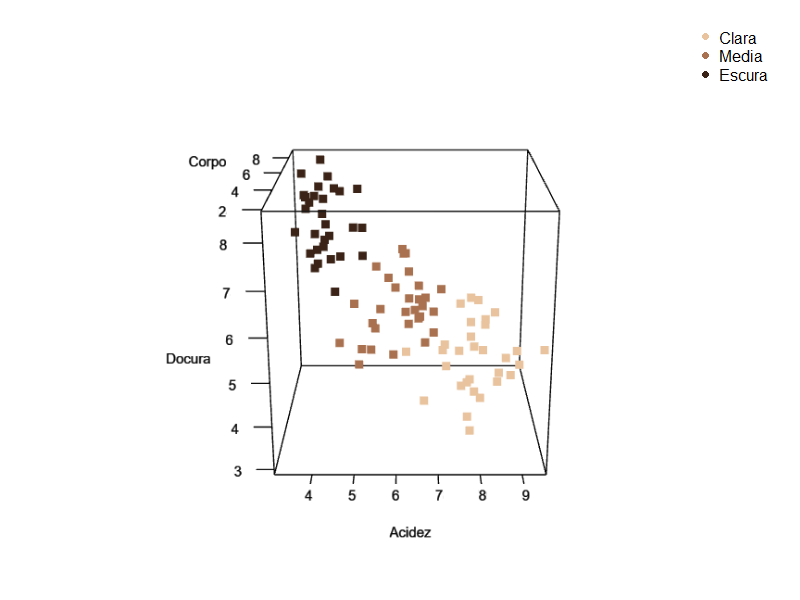
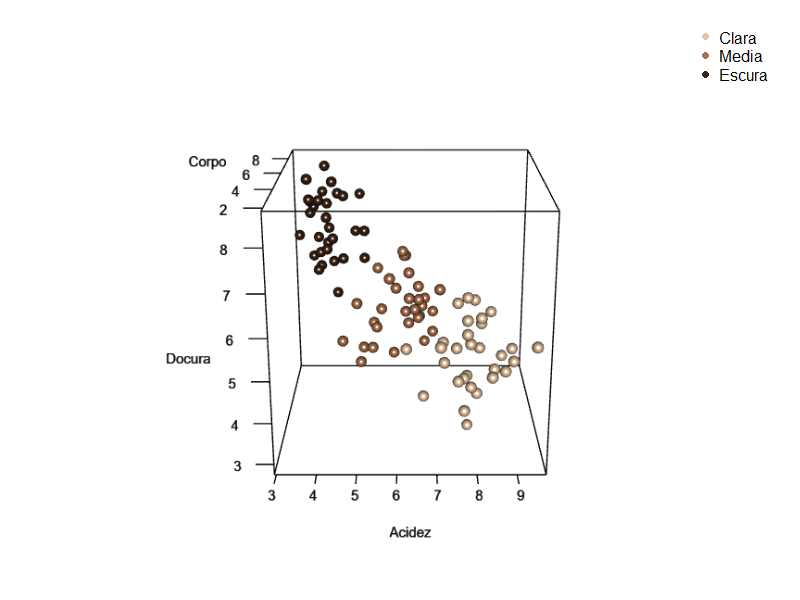
style: troca marcadores do dispersao 3d de cafes para esferas
type="s" (radius=0.15) no lugar de type="p" -- esferas com sombreamento
e reflexo reais em vez de marcadores achatados, a pedido do usuario.
Mesma cena/dados, output.png e widget.html regenerados.

diff --git a/graficos/correlation/dispersao-3d-cafes/widget.html b/graficos/correlation/dispersao-3d-cafes/widget.html
@@ -33,9 +33,9 @@
   .rglWebGL { max-width: 100%; }
   .rglWebGL canvas { max-width: 100%; height: auto !important; }
 </style>
-<p id="rgl65197-aria" hidden>3D plot</p>
-<div aria-labelledby="rgl65197-aria" class="rglWebGL html-widget html-fill-item" id="rgl65197" role="img" style="width:960px;height:500px;"></div>
-<script type="application/json" data-for="rgl65197">{"x":{"material":{"color":"#000000","alpha":1,"lit":true,"ambient":"#000000","specular":"#FFFFFF","emission":"#000000","shininess":50,"smooth":true,"front":"filled","back":"filled","size":3,"lwd":1,"fog":true,"point_antialias":false,"line_antialias":false,"texture":null,"textype":"rgb","texmode":"modulate","texmipmap":false,"texminfilter":"linear","texmagfilter":"linear","texenvmap":false,"depth_mask":true,"depth_test":"less","isTransparent":false,"polygon_offset":[0,0],"margin":"","floating":false,"tag":"","blend":["src_alpha","one_minus_src_alpha"]},"rootSubscene":6,"objects":{"15":{"id":15,"type":"points","material":{"lit":false,"size":9},"vertices":"0","colors":"1","centers":"2","ignoreExtent":false,"flags":34816},"17":{"id":17,"type":"text","material":{"lit":false,"margin":0,"floating":true,"edge":[0,1,1]},"vertices":"3","colors":"4","texts":[["Acidez"]],"cex":[[1]],"adj":[[0.5,0.5,0.5]],"centers":"5","family":[["sans"]],"font":[[1]],"ignoreExtent":true,"flags":33808},"18":{"id":18,"type":"text","material":{"lit":false,"margin":1,"floating":true,"edge":[1,1,1]},"vertices":"6","colors":"7","texts":[["Corpo"]],"cex":[[1]],"adj":[[0.5,0.5,0.5]],"centers":"8","family":[["sans"]],"font":[[1]],"ignoreExtent":true,"flags":33808},"19":{"id":19,"type":"text","material":{"lit":false,"margin":2,"floating":true,"edge":[1,1,1]},"vertices":"9","colors":"10","texts":[["Docura"]],"cex":[[1]],"adj":[[0.5,0.5,0.5]],"centers":"11","family":[["sans"]],"font":[[1]],"ignoreExtent":true,"flags":33808},"10":{"id":10,"type":"light","vertices":[[0,0,1]],"colors":[[1,1,1,1],[1,1,1,1],[1,1,1,1]],"viewpoint":true,"finite":false},"14":{"id":14,"type":"background","material":{"lit":false,"back":"lines"},"colors":"12","centers":"13","sphere":false,"fogtype":"none","fogscale":1,"flags":32768},"16":{"id":16,"type":"bboxdeco","material":{"front":"lines","back":"lines"},"vertices":"14","colors":"15","axes":{"mode":["pretty","pretty","pretty"],"step":[1,2,1],"nticks":[5,5,5],"marklen":[15,15,15],"expand":[1.029999971389771,1.029999971389771,1.029999971389771]},"draw_front":true,"flags":32769},"6":{"id":6,"type":"subscene","par3d":{"antialias":8,"FOV":30,"ignoreExtent":false,"listeners":6,"mouseMode":{"none":"none","left":"trackball","right":"zoom","middle":"fov","wheel":"pull"},"observer":[0,0,26.93403244018555],"modelMatrix":[[1.012434601783752,0,0,-6.416621685028076],[0,0.3061574995517731,1.066445589065552,-7.826549530029297],[0,-0.841160774230957,0.3881544768810272,-24.53449058532715],[0,0,0,1]],"projMatrix":[[2.799038171768188,0,0,0],[0,3.732050657272339,0,0],[0,0,-3.863702774047852,-97.09406280517578],[0,0,-1,0]],"skipRedraw":false,"userMatrix":[[1,0,0,0],[0,0.3420201433256682,0.9396926207859085,0],[0,-0.9396926207859085,0.3420201433256682,0],[0,0,0,1]],"userProjection":[[1,0,0,0],[0,1,0,0],[0,0,1,0],[0,0,0,1]],"scale":[1.012434601783752,0.8951445817947388,1.1348876953125],"viewport":{"x":0,"y":0,"width":1,"height":1},"zoom":1,"bbox":[3.199418306350708,9.476208686828613,1.959739565849304,9.058972358703613,2.957507371902466,8.557039260864258],"windowRect":[0,0,800,600],"family":"sans","font":1,"cex":1,"useFreeType":false,"fontname":"NULL","maxClipPlanes":2147483647,"glVersion":"NA","activeSubscene":0},"embeddings":{"viewport":"replace","projection":"replace","model":"replace","mouse":"replace"},"objects":[14,16,15,17,18,19,10],"subscenes":[],"flags":36113}},"crosstalk":{"key":[],"group":[],"id":[],"options":[]},"width":801,"height":601,"buffer":{"accessors":[{"bufferView":0,"componentType":5126,"count":90,"type":"VEC3"},{"bufferView":1,"componentType":5121,"count":90,"type":"VEC4","normalized":true},{"bufferView":2,"componentType":5126,"count":90,"type":"VEC3"},{"bufferView":3,"componentType":5126,"count":1,"type":"VEC3"},{"bufferView":4,"componentType":5121,"count":1,"type":"VEC4"},{"bufferView":5,"componentType":5126,"count":1,"type":"VEC3"},{"bufferView":6,"componentType":5126,"count":1,"type":"VEC3"},{"bufferView":7,"componentType":5121,"count":1,"type":"VEC4"},{"bufferView":8,"componentType":5126,"count":1,"type":"VEC3"},{"bufferView":9,"componentType":5126,"count":1,"type":"VEC3"},{"bufferView":10,"componentType":5121,"count":1,"type":"VEC4"},{"bufferView":11,"componentType":5126,"count":1,"type":"VEC3"},{"bufferView":12,"componentType":5121,"count":1,"type":"VEC4"},{"bufferView":13,"componentType":5121,"count":1,"type":"VEC3"},{"bufferView":14,"componentType":5126,"count":16,"type":"VEC3"},{"bufferView":15,"componentType":5121,"count":1,"type":"VEC4"}],"bufferViews":[{"buffer":0,"byteLength":1080,"byteOffset":0},{"buffer":0,"byteLength":360,"byteOffset":1080},{"buffer":0,"byteLength":1080,"byteOffset":1440},{"buffer":0,"byteLength":12,"byteOffset":2520},{"buffer":0,"byteLength":4,"byteOffset":2532},{"buffer":0,"byteLength":12,"byteOffset":2536},{"buffer":0,"byteLength":12,"byteOffset":2548},{"buffer":0,"byteLength":4,"byteOffset":2560},{"buffer":0,"byteLength":12,"byteOffset":2564},{"buffer":0,"byteLength":12,"byteOffset":2576},{"buffer":0,"byteLength":4,"byteOffset":2588},{"buffer":0,"byteLength":12,"byteOffset":2592},{"buffer":0,"byteLength":4,"byteOffset":2604},{"buffer":0,"byteLength":3,"byteOffset":2608},{"buffer":0,"byteLength":192,"byteOffset":2612},{"buffer":0,"byteLength":4,"byteOffset":2804}],"buffers":[{"byteLength":2808,"bytes":"cnb2QCRTKkDyYXtA5xn6QKZcgUA9vcdAORYMQVcskkBerpRA6QQPQXqmPEAGQ6FANHziQL/Y\n+j+XcrZAHmbmQFzGSEAdNZ5A5pr8QFAmUkD3I4lAmoD7QHOKh0DNRz1AfbECQQ7ue0D20rRA\n9aL4QDXaQkD3gb9AgHP7QJ2eQ0CWe61AvQECQcf9TUAjwr9AoU4PQREPc0C3XaJAlIr4QMBj\nNEAFHbdA2tYFQcaCD0BTupxASzgHQf36OUAjvJtAM8TxQA1se0BRmcRA5PwBQa6kdUDHj6JA\nKZb5QD6XaECZmI5AfAcAQdFmhkBrpMRAyp/2QP7RSkCHjpFAjZ4XQUcDI0BWULBAoJjHQN20\nTkBm26dA6M/VQFlTd0Dbb3ZAS3ELQW8pK0D+lZxAITPwQPilS0DC+KhAhNPlQIELc0A7UadA\nVQ/xQHOpHkDX8pZAsc8AQUXbWkAEyYJAW3MHQULymUDZtbVAnV/jQNUskUBbsslAke2iQGT1\npUA3EJVAcgbSQHzWrEA4D7pAW/2tQAYS20A1ZcdArKrJQBMTqUBodNBAGrDRQLXbrEDZqsRA\nNqOrQIPwrUCkFKdAuaq5QGkijkBF9dJA9jquQMfJpUBbuqVA9mrXQAj0yUBg0Y5ABd7GQOsX\nvkBEUKtA0fTJQApAl0BOA8FAM0fEQKgVx0D1HNpA3ErVQAB1zEBsn6tAaYaRQC6MmUCgA55A\n6j+rQB4PkkCVS5tAgWXeQNsst0DS0pxAyZDeQGW4w0DU1KlAO6DOQFNbokCB/bRAqgbYQK/H\n40ATuKtAdL/RQDkWrkAb7KpA8mmdQGP0pEDGDrlALT6yQLnBrUCRPbJA/N+8QO+QpEATQpFA\nUHHJQBkvqEBwa6hAXwChQJmVlkAmFI5ASKm+QA0NrUBcH8NAA/HGQB6v10B5utJAmCPTQOTv\nyEADPKRAGHXFQC94y0BXjdVARcNMQLQz/kDTZdpA0PhjQDnq0EDmfAhB98KFQFBf50BsYQVB\nBUSPQPrw7UAaNP5AiRCZQElx/0C/vN1AouN2QCSf5kChrsZAQeOAQLF+30Aoqe9Ap7CcQIa+\nBUEcJ/pALL+IQEYn8kBuoqxAl4ViQEKy9UCh2e5A+uWhQGmc6UA4keJA7z9/QJuZ/UCW/vRA\nmLNwQHMh+UCNPfhAZPmJQI0L8kBMif9Apn+BQIXc60AzkdhA165kQAljBkGNEu9A5GdkQLK3\nA0EUvMZA+7uFQODt9EDnncZAdWByQI3xEEEYuPdA+1BkQP7S3UCgV/5AjyuCQMZT8UDuieNA\nQh5gQJAYAUFlefVAQaBvQFNd/UDi9thAnbSGQNYT2kCb1d9A4Fd7QCCZA0Gi6QhBVJeBQDJ4\n2UDoUtdAgfVzQFDM10Bb8sZATrpzQGgL90DTu81A/2KPQJfV30AqGs5AOZChQLNx8ED0c8pA\n6MOe/+jDnv/ow57/6MOe/+jDnv/ow57/6MOe/+jDnv/ow57/6MOe/+jDnv/ow57/6MOe/+jD\nnv/ow57/6MOe/+jDnv/ow57/6MOe/+jDnv/ow57/6MOe/+jDnv/ow57/6MOe/+jDnv/ow57/\n6MOe/+jDnv/ow57/qXFP/6lxT/+pcU//qXFP/6lxT/+pcU//qXFP/6lxT/+pcU//qXFP/6lx\nT/+pcU//qXFP/6lxT/+pcU//qXFP/6lxT/+pcU//qXFP/6lxT/+pcU//qXFP/6lxT/+pcU//\nqXFP/6lxT/+pcU//qXFP/6lxT/+pcU//OyQX/zskF/87JBf/OyQX/zskF/87JBf/OyQX/zsk\nF/87JBf/OyQX/zskF/87JBf/OyQX/zskF/87JBf/OyQX/zskF/87JBf/OyQX/zskF/87JBf/\nOyQX/zskF/87JBf/OyQX/zskF/87JBf/OyQX/zskF/87JBf/cnb2QCRTKkDyYXtA5xn6QKZc\ngUA9vcdAORYMQVcskkBerpRA6QQPQXqmPEAGQ6FANHziQL/Y+j+XcrZAHmbmQFzGSEAdNZ5A\n5pr8QFAmUkD3I4lAmoD7QHOKh0DNRz1AfbECQQ7ue0D20rRA9aL4QDXaQkD3gb9AgHP7QJ2e\nQ0CWe61AvQECQcf9TUAjwr9AoU4PQREPc0C3XaJAlIr4QMBjNEAFHbdA2tYFQcaCD0BTupxA\nSzgHQf36OUAjvJtAM8TxQA1se0BRmcRA5PwBQa6kdUDHj6JAKZb5QD6XaECZmI5AfAcAQdFm\nhkBrpMRAyp/2QP7RSkCHjpFAjZ4XQUcDI0BWULBAoJjHQN20TkBm26dA6M/VQFlTd0Dbb3ZA\nS3ELQW8pK0D+lZxAITPwQPilS0DC+KhAhNPlQIELc0A7UadAVQ/xQHOpHkDX8pZAsc8AQUXb\nWkAEyYJAW3MHQULymUDZtbVAnV/jQNUskUBbsslAke2iQGT1pUA3EJVAcgbSQHzWrEA4D7pA\nW/2tQAYS20A1ZcdArKrJQBMTqUBodNBAGrDRQLXbrEDZqsRANqOrQIPwrUCkFKdAuaq5QGki\njkBF9dJA9jquQMfJpUBbuqVA9mrXQAj0yUBg0Y5ABd7GQOsXvkBEUKtA0fTJQApAl0BOA8FA\nM0fEQKgVx0D1HNpA3ErVQAB1zEBsn6tAaYaRQC6MmUCgA55A6j+rQB4PkkCVS5tAgWXeQNss\nt0DS0pxAyZDeQGW4w0DU1KlAO6DOQFNbokCB/bRAqgbYQK/H40ATuKtAdL/RQDkWrkAb7KpA\n8mmdQGP0pEDGDrlALT6yQLnBrUCRPbJA/N+8QO+QpEATQpFAUHHJQBkvqEBwa6hAXwChQJmV\nlkAmFI5ASKm+QA0NrUBcH8NAA/HGQB6v10B5utJAmCPTQOTvyEADPKRAGHXFQC94y0BXjdVA\nRcNMQLQz/kDTZdpA0PhjQDnq0EDmfAhB98KFQFBf50BsYQVBBUSPQPrw7UAaNP5AiRCZQElx\n/0C/vN1AouN2QCSf5kChrsZAQeOAQLF+30Aoqe9Ap7CcQIa+BUEcJ/pALL+IQEYn8kBuoqxA\nl4ViQEKy9UCh2e5A+uWhQGmc6UA4keJA7z9/QJuZ/UCW/vRAmLNwQHMh+UCNPfhAZPmJQI0L\n8kBMif9Apn+BQIXc60AzkdhA165kQAljBkGNEu9A5GdkQLK3A0EUvMZA+7uFQODt9EDnncZA\ndWByQI3xEEEYuPdA+1BkQP7S3UCgV/5AjyuCQMZT8UDuieNAQh5gQJAYAUFlefVAQaBvQFNd\n/UDi9thAnbSGQNYT2kCb1d9A4Fd7QCCZA0Gi6QhBVJeBQDJ42UDoUtdAgfVzQFDM10Bb8sZA\nTrpzQGgL90DTu81A/2KPQJfV30AqGs5AOZChQLNx8ED0c8pAAADAfwAAgEAAAIA/AAAAAQAA\nwH8AAIBAAACAPwAAwH8AAIBAAACAPwAAAAEAAMB/AACAQAAAgD8AAMB/AACAQAAAgD8AAAAB\nAADAfwAAgEAAAIA/AQEBAQAAAAAAAIBAAADAfwAAwH8AAKBAAADAfwAAwH8AAMBAAADAfwAA\nwH8AAOBAAADAfwAAwH8AAABBAADAfwAAwH8AABBBAADAfwAAwH8AAMB/AAAAQAAAwH8AAMB/\nAACAQAAAwH8AAMB/AADAQAAAwH8AAMB/AAAAQQAAwH8AAMB/AADAfwAAQEAAAMB/AADAfwAA\ngEAAAMB/AADAfwAAoEAAAMB/AADAfwAAwEAAAMB/AADAfwAA4EAAAMB/AADAfwAAAEEAAAAB\n"}]},"context":{"shiny":false,"rmarkdown":null},"vertexShader":"#line 2 1\n// File 1 is the vertex shader\n#ifdef GL_ES\n#ifdef GL_FRAGMENT_PRECISION_HIGH\nprecision highp float;\n#else\nprecision mediump float;\n#endif\n#endif\n\nattribute vec3 aPos;\nattribute vec4 aCol;\nuniform mat4 mvMatrix;\nuniform mat4 prMatrix;\nvarying vec4 vCol;\nvarying vec4 vPosition;\n\n#ifdef NEEDS_VNORMAL\nattribute vec3 aNorm;\nuniform mat4 normMatrix;\nvarying vec4 vNormal;\n#endif\n\n#if defined(HAS_TEXTURE) || defined (IS_TEXT)\nattribute vec2 aTexcoord;\nvarying vec2 vTexcoord;\n#endif\n\n#ifdef FIXED_SIZE\nuniform vec3 textScale;\n#endif\n\n#ifdef FIXED_QUADS\nattribute vec3 aOfs;\n#endif\n\n#ifdef IS_TWOSIDED\n#ifdef HAS_NORMALS\nvarying float normz;\nuniform mat4 invPrMatrix;\n#else\nattribute vec3 aPos1;\nattribute vec3 aPos2;\nvarying float normz;\n#endif\n#endif // IS_TWOSIDED\n\n#ifdef FAT_LINES\nattribute vec3 aNext;\nattribute vec2 aPoint;\nvarying vec2 vPoint;\nvarying float vLength;\nuniform float uAspect;\nuniform float uLwd;\n#endif\n\n#ifdef USE_ENVMAP\nvarying vec3 vReflection;\n#endif\n\nvoid main(void) {\n  \n#ifndef IS_BRUSH\n#if defined(NCLIPPLANES) || !defined(FIXED_QUADS) || defined(HAS_FOG) || defined(USE_ENVMAP)\n  vPosition = mvMatrix * vec4(aPos, 1.);\n#endif\n  \n#ifndef FIXED_QUADS\n  gl_Position = prMatrix * vPosition;\n#endif\n#endif // !IS_BRUSH\n  \n#ifdef IS_POINTS\n  gl_PointSize = POINTSIZE;\n#endif\n  \n  vCol = aCol;\n  \n// USE_ENVMAP implies NEEDS_VNORMAL\n\n#ifdef NEEDS_VNORMAL\n  vNormal = normMatrix * vec4(-aNorm, dot(aNorm, aPos));\n#endif\n\n#ifdef USE_ENVMAP\n  vReflection = normalize(reflect(vPosition.xyz/vPosition.w, \n                        normalize(vNormal.xyz/vNormal.w)));\n#endif\n  \n#ifdef IS_TWOSIDED\n#ifdef HAS_NORMALS\n  /* normz should be calculated *after* projection */\n  normz = (invPrMatrix*vNormal).z;\n#else\n  vec4 pos1 = prMatrix*(mvMatrix*vec4(aPos1, 1.));\n  pos1 = pos1/pos1.w - gl_Position/gl_Position.w;\n  vec4 pos2 = prMatrix*(mvMatrix*vec4(aPos2, 1.));\n  pos2 = pos2/pos2.w - gl_Position/gl_Position.w;\n  normz = pos1.x*pos2.y - pos1.y*pos2.x;\n#endif\n#endif // IS_TWOSIDED\n  \n#ifdef NEEDS_VNORMAL\n  vNormal = vec4(normalize(vNormal.xyz), 1);\n#endif\n  \n#if defined(HAS_TEXTURE) || defined(IS_TEXT)\n  vTexcoord = aTexcoord;\n#endif\n  \n#if defined(FIXED_SIZE) && !defined(ROTATING)\n  vec4 pos = prMatrix * mvMatrix * vec4(aPos, 1.);\n  pos = pos/pos.w;\n  gl_Position = pos + vec4(aOfs*textScale, 0.);\n#endif\n  \n#if defined(IS_SPRITES) && !defined(FIXED_SIZE)\n  vec4 pos = mvMatrix * vec4(aPos, 1.);\n  pos = pos/pos.w + vec4(aOfs,  0.);\n  gl_Position = prMatrix*pos;\n#endif\n  \n#ifdef FAT_LINES\n  /* This code was inspired by Matt Deslauriers' code in \n   https://mattdesl.svbtle.com/drawing-lines-is-hard */\n  vec2 aspectVec = vec2(uAspect, 1.0);\n  mat4 projViewModel = prMatrix * mvMatrix;\n  vec4 currentProjected = projViewModel * vec4(aPos, 1.0);\n  currentProjected = currentProjected/currentProjected.w;\n  vec4 nextProjected = projViewModel * vec4(aNext, 1.0);\n  vec2 currentScreen = currentProjected.xy * aspectVec;\n  vec2 nextScreen = (nextProjected.xy / nextProjected.w) * aspectVec;\n  float len = uLwd;\n  vec2 dir = vec2(1.0, 0.0);\n  vPoint = aPoint;\n  vLength = length(nextScreen - currentScreen)/2.0;\n  vLength = vLength/(vLength + len);\n  if (vLength > 0.0) {\n    dir = normalize(nextScreen - currentScreen);\n  }\n  vec2 normal = vec2(-dir.y, dir.x);\n  dir.x /= uAspect;\n  normal.x /= uAspect;\n  vec4 offset = vec4(len*(normal*aPoint.x*aPoint.y - dir), 0.0, 0.0);\n  gl_Position = currentProjected + offset;\n#endif\n  \n#ifdef IS_BRUSH\n  gl_Position = vec4(aPos, 1.);\n#endif\n}","fragmentShader":"#line 2 2\n// File 2 is the fragment shader\n#ifdef GL_ES\n#ifdef GL_FRAGMENT_PRECISION_HIGH\nprecision highp float;\n#else\nprecision mediump float;\n#endif\n#endif\nvarying vec4 vCol; // carries alpha\nvarying vec4 vPosition;\n#if defined(HAS_TEXTURE) || defined (IS_TEXT)\nvarying vec2 vTexcoord;\nuniform sampler2D uSampler;\n#endif\n\n#ifdef HAS_FOG\nuniform int uFogMode;\nuniform vec3 uFogColor;\nuniform vec4 uFogParms;\n#endif\n\n#if defined(IS_LIT) && !defined(FIXED_QUADS)\nvarying vec4 vNormal;\n#endif\n\n#if NCLIPPLANES > 0\nuniform vec4 vClipplane[NCLIPPLANES];\n#endif\n\n#if NLIGHTS > 0\nuniform mat4 mvMatrix;\n#endif\n\n#ifdef IS_LIT\nuniform vec3 emission;\nuniform float shininess;\n#if NLIGHTS > 0\nuniform vec3 ambient[NLIGHTS];\nuniform vec3 specular[NLIGHTS]; // light*material\nuniform vec3 diffuse[NLIGHTS];\nuniform vec3 lightDir[NLIGHTS];\nuniform bool viewpoint[NLIGHTS];\nuniform bool finite[NLIGHTS];\n#endif\n#endif // IS_LIT\n\n#ifdef IS_TWOSIDED\nuniform bool front;\nvarying float normz;\n#endif\n\n#ifdef FAT_LINES\nvarying vec2 vPoint;\nvarying float vLength;\n#endif\n\n#ifdef USE_ENVMAP\nvarying vec3 vReflection;\n#endif\n\nvoid main(void) {\n  vec4 fragColor;\n#ifdef FAT_LINES\n  vec2 point = vPoint;\n  bool neg = point.y < 0.0;\n  point.y = neg ? (point.y + vLength)/(1.0 - vLength) :\n                 -(point.y - vLength)/(1.0 - vLength);\n#if defined(IS_TRANSPARENT) && defined(IS_LINESTRIP)\n  if (neg && length(point) <= 1.0) discard;\n#endif\n  point.y = min(point.y, 0.0);\n  if (length(point) > 1.0) discard;\n#endif // FAT_LINES\n  \n#ifdef ROUND_POINTS\n  vec2 coord = gl_PointCoord - vec2(0.5);\n  if (length(coord) > 0.5) discard;\n#endif\n  \n#if NCLIPPLANES > 0\n  for (int i = 0; i < NCLIPPLANES; i++)\n    if (dot(vPosition, vClipplane[i]) < 0.0) discard;\n#endif\n    \n#ifdef FIXED_QUADS\n    vec3 n = vec3(0., 0., 1.);\n#elif defined(IS_LIT)\n    vec3 n = normalize(vNormal.xyz);\n#endif\n    \n#ifdef IS_TWOSIDED\n    if ((normz <= 0.) != front) discard;\n#endif\n\n#ifdef IS_LIT\n    vec3 eye = normalize(-vPosition.xyz/vPosition.w);\n    vec3 lightdir;\n    vec4 colDiff;\n    vec3 halfVec;\n    vec4 lighteffect = vec4(emission, 0.);\n    vec3 col;\n    float nDotL;\n#ifdef FIXED_QUADS\n    n = -faceforward(n, n, eye);\n#endif\n    \n#if NLIGHTS > 0\n    // Simulate two-sided lighting\n    if (n.z < 0.0)\n      n = -n;\n    for (int i=0;i<NLIGHTS;i++) {\n      colDiff = vec4(vCol.rgb * diffuse[i], vCol.a);\n      lightdir = lightDir[i];\n      if (!viewpoint[i]) {\n        if (finite[i]) {\n          lightdir = (mvMatrix * vec4(lightdir, 1.)).xyz;\n        } else {\n          lightdir = (mvMatrix * vec4(lightdir, 0.)).xyz;\n        }\n      }\n      if (!finite[i]) {\n        halfVec = normalize(lightdir + eye);\n      } else {\n        lightdir = normalize(lightdir - vPosition.xyz/vPosition.w);\n        halfVec = normalize(lightdir + eye);\n      }\n      col = ambient[i];\n      nDotL = dot(n, lightdir);\n      col = col + max(nDotL, 0.) * colDiff.rgb;\n      col = col + pow(max(dot(halfVec, n), 0.), shininess) * specular[i];\n      lighteffect = lighteffect + vec4(col, colDiff.a);\n    }\n#else\n    lighteffect.a = 1.;\n#endif\n    \n#else // not IS_LIT\n    vec4 colDiff = vCol;\n    vec4 lighteffect = colDiff;\n#endif\n    \n#ifdef IS_TEXT\n    vec4 textureColor = lighteffect*texture2D(uSampler, vTexcoord);\n#endif\n    \n#ifdef HAS_TEXTURE\n\n// These calculations use the definitions from \n// https://docs.gl/gl3/glTexEnv\n\n#ifdef USE_ENVMAP\n    float m = 2.0 * sqrt(dot(vReflection, vReflection) + 2.0*vReflection.z + 1.0);\n    vec4 textureColor = texture2D(uSampler, vReflection.xy / m + vec2(0.5, 0.5));\n#else\n    vec4 textureColor = texture2D(uSampler, vTexcoord);\n#endif\n\n#ifdef TEXTURE_rgb\n\n#if defined(TEXMODE_replace) || defined(TEXMODE_decal)\n    textureColor = vec4(textureColor.rgb, lighteffect.a);\n#endif \n\n#ifdef TEXMODE_modulate\n    textureColor = lighteffect*vec4(textureColor.rgb, 1.);\n#endif\n\n#ifdef TEXMODE_blend\n    textureColor = vec4((1. - textureColor.rgb) * lighteffect.rgb, lighteffect.a);\n#endif\n\n#ifdef TEXMODE_add\n    textureColor = vec4(lighteffect.rgb + textureColor.rgb, lighteffect.a);\n#endif\n\n#endif //TEXTURE_rgb\n        \n#ifdef TEXTURE_rgba\n\n#ifdef TEXMODE_replace\n// already done\n#endif \n\n#ifdef TEXMODE_modulate\n    textureColor = lighteffect*textureColor;\n#endif\n\n#ifdef TEXMODE_decal\n    textureColor = vec4((1. - textureColor.a)*lighteffect.rgb) +\n                     textureColor.a*textureColor.rgb, \n                     lighteffect.a);\n#endif\n\n#ifdef TEXMODE_blend\n    textureColor = vec4((1. - textureColor.rgb) * lighteffect.rgb,\n                    lighteffect.a*textureColor.a);\n#endif\n\n#ifdef TEXMODE_add\n    textureColor = vec4(lighteffect.rgb + textureColor.rgb,\n                    lighteffect.a*textureColor.a);\n#endif\n    \n#endif //TEXTURE_rgba\n    \n#ifdef TEXTURE_alpha\n    float luminance = dot(vec3(1.,1.,1.),textureColor.rgb)/3.;\n\n#if defined(TEXMODE_replace) || defined(TEXMODE_decal)\n    textureColor = vec4(lighteffect.rgb, luminance);\n#endif \n\n#if defined(TEXMODE_modulate) || defined(TEXMODE_blend) || defined(TEXMODE_add)\n    textureColor = vec4(lighteffect.rgb, lighteffect.a*luminance);\n#endif\n \n#endif // TEXTURE_alpha\n    \n// The TEXTURE_luminance values are not from that reference    \n#ifdef TEXTURE_luminance\n    float luminance = dot(vec3(1.,1.,1.),textureColor.rgb)/3.;\n\n#if defined(TEXMODE_replace) || defined(TEXMODE_decal)\n    textureColor = vec4(luminance, luminance, luminance, lighteffect.a);\n#endif \n\n#ifdef TEXMODE_modulate\n    textureColor = vec4(luminance*lighteffect.rgb, lighteffect.a);\n#endif\n\n#ifdef TEXMODE_blend\n    textureColor = vec4((1. - luminance)*lighteffect.rgb,\n                        lighteffect.a);\n#endif\n\n#ifdef TEXMODE_add\n    textureColor = vec4(luminance + lighteffect.rgb, lighteffect.a);\n#endif\n\n#endif // TEXTURE_luminance\n \n    \n#ifdef TEXTURE_luminance_alpha\n    float luminance = dot(vec3(1.,1.,1.),textureColor.rgb)/3.;\n\n#if defined(TEXMODE_replace) || defined(TEXMODE_decal)\n    textureColor = vec4(luminance, luminance, luminance, textureColor.a);\n#endif \n\n#ifdef TEXMODE_modulate\n    textureColor = vec4(luminance*lighteffect.rgb, \n                        textureColor.a*lighteffect.a);\n#endif\n\n#ifdef TEXMODE_blend\n    textureColor = vec4((1. - luminance)*lighteffect.rgb,\n                        textureColor.a*lighteffect.a);\n#endif\n\n#ifdef TEXMODE_add\n    textureColor = vec4(luminance + lighteffect.rgb, \n                        textureColor.a*lighteffect.a);\n\n#endif\n\n#endif // TEXTURE_luminance_alpha\n    \n    fragColor = textureColor;\n\n#elif defined(IS_TEXT)\n    if (textureColor.a < 0.1)\n      discard;\n    else\n      fragColor = textureColor;\n#else\n    fragColor = lighteffect;\n#endif // HAS_TEXTURE\n    \n#ifdef HAS_FOG\n    // uFogParms elements: x = near, y = far, z = fogscale, w = (1-sin(FOV/2))/(1+sin(FOV/2))\n    // In Exp and Exp2: use density = density/far\n    // fogF will be the proportion of fog\n    // Initialize it to the linear value\n    float fogF;\n    if (uFogMode > 0) {\n      fogF = (uFogParms.y - vPosition.z/vPosition.w)/(uFogParms.y - uFogParms.x);\n      if (uFogMode > 1)\n        fogF = mix(uFogParms.w, 1.0, fogF);\n      fogF = fogF*uFogParms.z;\n      if (uFogMode == 2)\n        fogF = 1.0 - exp(-fogF);\n      // Docs are wrong: use (density*c)^2, not density*c^2\n      // https://gitlab.freedesktop.org/mesa/mesa/-/blob/master/src/mesa/swrast/s_fog.c#L58\n      else if (uFogMode == 3)\n        fogF = 1.0 - exp(-fogF*fogF);\n      fogF = clamp(fogF, 0.0, 1.0);\n      gl_FragColor = vec4(mix(fragColor.rgb, uFogColor, fogF), fragColor.a);\n    } else gl_FragColor = fragColor;\n#else\n    gl_FragColor = fragColor;\n#endif // HAS_FOG\n    \n}","players":[],"webGLoptions":{"preserveDrawingBuffer":true},"fastTransparency":true},"evals":[],"jsHooks":[]}</script>
+<p id="rgl834-aria" hidden>3D plot</p>
+<div aria-labelledby="rgl834-aria" class="rglWebGL html-widget html-fill-item" id="rgl834" role="img" style="width:960px;height:500px;"></div>
+<script type="application/json" data-for="rgl834">{"x":{"material":{"color":"#000000","alpha":1,"lit":true,"ambient":"#000000","specular":"#FFFFFF","emission":"#000000","shininess":50,"smooth":true,"front":"filled","back":"filled","size":3,"lwd":1,"fog":true,"point_antialias":false,"line_antialias":false,"texture":null,"textype":"rgb","texmode":"modulate","texmipmap":false,"texminfilter":"linear","texmagfilter":"linear","texenvmap":false,"depth_mask":true,"depth_test":"less","isTransparent":false,"polygon_offset":[0,0],"margin":"","floating":false,"tag":"","blend":["src_alpha","one_minus_src_alpha"]},"rootSubscene":6,"objects":{"15":{"id":15,"type":"spheres","material":{},"vertices":"0","colors":"1","radii":[[0.1500000059604645]],"centers":"2","ignoreExtent":false,"fastTransparency":true,"flags":32771},"17":{"id":17,"type":"text","material":{"lit":false,"margin":0,"floating":true,"edge":[0,1,1]},"vertices":"3","colors":"4","texts":[["Acidez"]],"cex":[[1]],"adj":[[0.5,0.5,0.5]],"centers":"5","family":[["sans"]],"font":[[1]],"ignoreExtent":true,"flags":33808},"18":{"id":18,"type":"text","material":{"lit":false,"margin":1,"floating":true,"edge":[1,1,1]},"vertices":"6","colors":"7","texts":[["Corpo"]],"cex":[[1]],"adj":[[0.5,0.5,0.5]],"centers":"8","family":[["sans"]],"font":[[1]],"ignoreExtent":true,"flags":33808},"19":{"id":19,"type":"text","material":{"lit":false,"margin":2,"floating":true,"edge":[1,1,1]},"vertices":"9","colors":"10","texts":[["Docura"]],"cex":[[1]],"adj":[[0.5,0.5,0.5]],"centers":"11","family":[["sans"]],"font":[[1]],"ignoreExtent":true,"flags":33808},"10":{"id":10,"type":"light","vertices":[[0,0,1]],"colors":[[1,1,1,1],[1,1,1,1],[1,1,1,1]],"viewpoint":true,"finite":false},"14":{"id":14,"type":"background","material":{"lit":false,"back":"lines"},"colors":"12","centers":"13","sphere":false,"fogtype":"none","fogscale":1,"flags":32768},"16":{"id":16,"type":"bboxdeco","material":{"front":"lines","back":"lines"},"vertices":"14","colors":"15","axes":{"mode":["pretty","pretty","pretty"],"step":[1,2,1],"nticks":[5,5,5],"marklen":[15,15,15],"expand":[1.029999971389771,1.029999971389771,1.029999971389771]},"draw_front":true,"flags":32769},"6":{"id":6,"type":"subscene","par3d":{"antialias":8,"FOV":30,"ignoreExtent":false,"listeners":6,"mouseMode":{"none":"none","left":"trackball","right":"zoom","middle":"fov","wheel":"pull"},"observer":[0,0,28.20553779602051],"modelMatrix":[[1.012434601783752,0,0,-6.416621685028076],[0,0.3061574995517731,1.066445589065552,-7.826549530029297],[0,-0.841160774230957,0.3881544768810272,-25.80599594116211],[0,0,0,1]],"projMatrix":[[2.799038171768188,0,0,0],[0,3.732050895690918,0,0],[0,0,-3.863703012466431,-101.6776885986328],[0,0,-1,0]],"skipRedraw":false,"userMatrix":[[1,0,0,0],[0,0.3420201433256682,0.9396926207859085,0],[0,-0.9396926207859085,0.3420201433256682,0],[0,0,0,1]],"userProjection":[[1,0,0,0],[0,1,0,0],[0,0,1,0],[0,0,0,1]],"scale":[1.012434601783752,0.8951445817947388,1.1348876953125],"viewport":{"x":0,"y":0,"width":1,"height":1},"zoom":1,"bbox":[3.051260471343994,9.624366760253906,1.792168855667114,9.226543426513672,2.825335741043091,8.689210891723633],"windowRect":[0,0,800,600],"family":"sans","font":1,"cex":1,"useFreeType":false,"fontname":"NULL","maxClipPlanes":2147483647,"glVersion":"NA","activeSubscene":0},"embeddings":{"viewport":"replace","projection":"replace","model":"replace","mouse":"replace"},"objects":[14,16,15,17,18,19,10],"subscenes":[],"flags":34067}},"crosstalk":{"key":[],"group":[],"id":[],"options":[]},"width":801,"height":601,"buffer":{"accessors":[{"bufferView":0,"componentType":5126,"count":90,"type":"VEC3"},{"bufferView":1,"componentType":5121,"count":90,"type":"VEC4","normalized":true},{"bufferView":2,"componentType":5126,"count":90,"type":"VEC3"},{"bufferView":3,"componentType":5126,"count":1,"type":"VEC3"},{"bufferView":4,"componentType":5121,"count":1,"type":"VEC4"},{"bufferView":5,"componentType":5126,"count":1,"type":"VEC3"},{"bufferView":6,"componentType":5126,"count":1,"type":"VEC3"},{"bufferView":7,"componentType":5121,"count":1,"type":"VEC4"},{"bufferView":8,"componentType":5126,"count":1,"type":"VEC3"},{"bufferView":9,"componentType":5126,"count":1,"type":"VEC3"},{"bufferView":10,"componentType":5121,"count":1,"type":"VEC4"},{"bufferView":11,"componentType":5126,"count":1,"type":"VEC3"},{"bufferView":12,"componentType":5121,"count":1,"type":"VEC4"},{"bufferView":13,"componentType":5121,"count":1,"type":"VEC3"},{"bufferView":14,"componentType":5126,"count":16,"type":"VEC3"},{"bufferView":15,"componentType":5121,"count":1,"type":"VEC4"}],"bufferViews":[{"buffer":0,"byteLength":1080,"byteOffset":0},{"buffer":0,"byteLength":360,"byteOffset":1080},{"buffer":0,"byteLength":1080,"byteOffset":1440},{"buffer":0,"byteLength":12,"byteOffset":2520},{"buffer":0,"byteLength":4,"byteOffset":2532},{"buffer":0,"byteLength":12,"byteOffset":2536},{"buffer":0,"byteLength":12,"byteOffset":2548},{"buffer":0,"byteLength":4,"byteOffset":2560},{"buffer":0,"byteLength":12,"byteOffset":2564},{"buffer":0,"byteLength":12,"byteOffset":2576},{"buffer":0,"byteLength":4,"byteOffset":2588},{"buffer":0,"byteLength":12,"byteOffset":2592},{"buffer":0,"byteLength":4,"byteOffset":2604},{"buffer":0,"byteLength":3,"byteOffset":2608},{"buffer":0,"byteLength":192,"byteOffset":2612},{"buffer":0,"byteLength":4,"byteOffset":2804}],"buffers":[{"byteLength":2808,"bytes":"cnb2QCRTKkDyYXtA5xn6QKZcgUA9vcdAORYMQVcskkBerpRA6QQPQXqmPEAGQ6FANHziQL/Y\n+j+XcrZAHmbmQFzGSEAdNZ5A5pr8QFAmUkD3I4lAmoD7QHOKh0DNRz1AfbECQQ7ue0D20rRA\n9aL4QDXaQkD3gb9AgHP7QJ2eQ0CWe61AvQECQcf9TUAjwr9AoU4PQREPc0C3XaJAlIr4QMBj\nNEAFHbdA2tYFQcaCD0BTupxASzgHQf36OUAjvJtAM8TxQA1se0BRmcRA5PwBQa6kdUDHj6JA\nKZb5QD6XaECZmI5AfAcAQdFmhkBrpMRAyp/2QP7RSkCHjpFAjZ4XQUcDI0BWULBAoJjHQN20\nTkBm26dA6M/VQFlTd0Dbb3ZAS3ELQW8pK0D+lZxAITPwQPilS0DC+KhAhNPlQIELc0A7UadA\nVQ/xQHOpHkDX8pZAsc8AQUXbWkAEyYJAW3MHQULymUDZtbVAnV/jQNUskUBbsslAke2iQGT1\npUA3EJVAcgbSQHzWrEA4D7pAW/2tQAYS20A1ZcdArKrJQBMTqUBodNBAGrDRQLXbrEDZqsRA\nNqOrQIPwrUCkFKdAuaq5QGkijkBF9dJA9jquQMfJpUBbuqVA9mrXQAj0yUBg0Y5ABd7GQOsX\nvkBEUKtA0fTJQApAl0BOA8FAM0fEQKgVx0D1HNpA3ErVQAB1zEBsn6tAaYaRQC6MmUCgA55A\n6j+rQB4PkkCVS5tAgWXeQNsst0DS0pxAyZDeQGW4w0DU1KlAO6DOQFNbokCB/bRAqgbYQK/H\n40ATuKtAdL/RQDkWrkAb7KpA8mmdQGP0pEDGDrlALT6yQLnBrUCRPbJA/N+8QO+QpEATQpFA\nUHHJQBkvqEBwa6hAXwChQJmVlkAmFI5ASKm+QA0NrUBcH8NAA/HGQB6v10B5utJAmCPTQOTv\nyEADPKRAGHXFQC94y0BXjdVARcNMQLQz/kDTZdpA0PhjQDnq0EDmfAhB98KFQFBf50BsYQVB\nBUSPQPrw7UAaNP5AiRCZQElx/0C/vN1AouN2QCSf5kChrsZAQeOAQLF+30Aoqe9Ap7CcQIa+\nBUEcJ/pALL+IQEYn8kBuoqxAl4ViQEKy9UCh2e5A+uWhQGmc6UA4keJA7z9/QJuZ/UCW/vRA\nmLNwQHMh+UCNPfhAZPmJQI0L8kBMif9Apn+BQIXc60AzkdhA165kQAljBkGNEu9A5GdkQLK3\nA0EUvMZA+7uFQODt9EDnncZAdWByQI3xEEEYuPdA+1BkQP7S3UCgV/5AjyuCQMZT8UDuieNA\nQh5gQJAYAUFlefVAQaBvQFNd/UDi9thAnbSGQNYT2kCb1d9A4Fd7QCCZA0Gi6QhBVJeBQDJ4\n2UDoUtdAgfVzQFDM10Bb8sZATrpzQGgL90DTu81A/2KPQJfV30AqGs5AOZChQLNx8ED0c8pA\n6MOe/+jDnv/ow57/6MOe/+jDnv/ow57/6MOe/+jDnv/ow57/6MOe/+jDnv/ow57/6MOe/+jD\nnv/ow57/6MOe/+jDnv/ow57/6MOe/+jDnv/ow57/6MOe/+jDnv/ow57/6MOe/+jDnv/ow57/\n6MOe/+jDnv/ow57/qXFP/6lxT/+pcU//qXFP/6lxT/+pcU//qXFP/6lxT/+pcU//qXFP/6lx\nT/+pcU//qXFP/6lxT/+pcU//qXFP/6lxT/+pcU//qXFP/6lxT/+pcU//qXFP/6lxT/+pcU//\nqXFP/6lxT/+pcU//qXFP/6lxT/+pcU//OyQX/zskF/87JBf/OyQX/zskF/87JBf/OyQX/zsk\nF/87JBf/OyQX/zskF/87JBf/OyQX/zskF/87JBf/OyQX/zskF/87JBf/OyQX/zskF/87JBf/\nOyQX/zskF/87JBf/OyQX/zskF/87JBf/OyQX/zskF/87JBf/cnb2QCRTKkDyYXtA5xn6QKZc\ngUA9vcdAORYMQVcskkBerpRA6QQPQXqmPEAGQ6FANHziQL/Y+j+XcrZAHmbmQFzGSEAdNZ5A\n5pr8QFAmUkD3I4lAmoD7QHOKh0DNRz1AfbECQQ7ue0D20rRA9aL4QDXaQkD3gb9AgHP7QJ2e\nQ0CWe61AvQECQcf9TUAjwr9AoU4PQREPc0C3XaJAlIr4QMBjNEAFHbdA2tYFQcaCD0BTupxA\nSzgHQf36OUAjvJtAM8TxQA1se0BRmcRA5PwBQa6kdUDHj6JAKZb5QD6XaECZmI5AfAcAQdFm\nhkBrpMRAyp/2QP7RSkCHjpFAjZ4XQUcDI0BWULBAoJjHQN20TkBm26dA6M/VQFlTd0Dbb3ZA\nS3ELQW8pK0D+lZxAITPwQPilS0DC+KhAhNPlQIELc0A7UadAVQ/xQHOpHkDX8pZAsc8AQUXb\nWkAEyYJAW3MHQULymUDZtbVAnV/jQNUskUBbsslAke2iQGT1pUA3EJVAcgbSQHzWrEA4D7pA\nW/2tQAYS20A1ZcdArKrJQBMTqUBodNBAGrDRQLXbrEDZqsRANqOrQIPwrUCkFKdAuaq5QGki\njkBF9dJA9jquQMfJpUBbuqVA9mrXQAj0yUBg0Y5ABd7GQOsXvkBEUKtA0fTJQApAl0BOA8FA\nM0fEQKgVx0D1HNpA3ErVQAB1zEBsn6tAaYaRQC6MmUCgA55A6j+rQB4PkkCVS5tAgWXeQNss\nt0DS0pxAyZDeQGW4w0DU1KlAO6DOQFNbokCB/bRAqgbYQK/H40ATuKtAdL/RQDkWrkAb7KpA\n8mmdQGP0pEDGDrlALT6yQLnBrUCRPbJA/N+8QO+QpEATQpFAUHHJQBkvqEBwa6hAXwChQJmV\nlkAmFI5ASKm+QA0NrUBcH8NAA/HGQB6v10B5utJAmCPTQOTvyEADPKRAGHXFQC94y0BXjdVA\nRcNMQLQz/kDTZdpA0PhjQDnq0EDmfAhB98KFQFBf50BsYQVBBUSPQPrw7UAaNP5AiRCZQElx\n/0C/vN1AouN2QCSf5kChrsZAQeOAQLF+30Aoqe9Ap7CcQIa+BUEcJ/pALL+IQEYn8kBuoqxA\nl4ViQEKy9UCh2e5A+uWhQGmc6UA4keJA7z9/QJuZ/UCW/vRAmLNwQHMh+UCNPfhAZPmJQI0L\n8kBMif9Apn+BQIXc60AzkdhA165kQAljBkGNEu9A5GdkQLK3A0EUvMZA+7uFQODt9EDnncZA\ndWByQI3xEEEYuPdA+1BkQP7S3UCgV/5AjyuCQMZT8UDuieNAQh5gQJAYAUFlefVAQaBvQFNd\n/UDi9thAnbSGQNYT2kCb1d9A4Fd7QCCZA0Gi6QhBVJeBQDJ42UDoUtdAgfVzQFDM10Bb8sZA\nTrpzQGgL90DTu81A/2KPQJfV30AqGs5AOZChQLNx8ED0c8pAAADAfwAAgEAAAIA/AAAAAQAA\nwH8AAIBAAACAPwAAwH8AAIBAAACAPwAAAAEAAMB/AACAQAAAgD8AAMB/AACAQAAAgD8AAAAB\nAADAfwAAgEAAAIA/AQEBAQAAAAAAAIBAAADAfwAAwH8AAKBAAADAfwAAwH8AAMBAAADAfwAA\nwH8AAOBAAADAfwAAwH8AAABBAADAfwAAwH8AABBBAADAfwAAwH8AAMB/AAAAQAAAwH8AAMB/\nAACAQAAAwH8AAMB/AADAQAAAwH8AAMB/AAAAQQAAwH8AAMB/AADAfwAAQEAAAMB/AADAfwAA\ngEAAAMB/AADAfwAAoEAAAMB/AADAfwAAwEAAAMB/AADAfwAA4EAAAMB/AADAfwAAAEEAAAAB\n"}]},"context":{"shiny":false,"rmarkdown":null},"vertexShader":"#line 2 1\n// File 1 is the vertex shader\n#ifdef GL_ES\n#ifdef GL_FRAGMENT_PRECISION_HIGH\nprecision highp float;\n#else\nprecision mediump float;\n#endif\n#endif\n\nattribute vec3 aPos;\nattribute vec4 aCol;\nuniform mat4 mvMatrix;\nuniform mat4 prMatrix;\nvarying vec4 vCol;\nvarying vec4 vPosition;\n\n#ifdef NEEDS_VNORMAL\nattribute vec3 aNorm;\nuniform mat4 normMatrix;\nvarying vec4 vNormal;\n#endif\n\n#if defined(HAS_TEXTURE) || defined (IS_TEXT)\nattribute vec2 aTexcoord;\nvarying vec2 vTexcoord;\n#endif\n\n#ifdef FIXED_SIZE\nuniform vec3 textScale;\n#endif\n\n#ifdef FIXED_QUADS\nattribute vec3 aOfs;\n#endif\n\n#ifdef IS_TWOSIDED\n#ifdef HAS_NORMALS\nvarying float normz;\nuniform mat4 invPrMatrix;\n#else\nattribute vec3 aPos1;\nattribute vec3 aPos2;\nvarying float normz;\n#endif\n#endif // IS_TWOSIDED\n\n#ifdef FAT_LINES\nattribute vec3 aNext;\nattribute vec2 aPoint;\nvarying vec2 vPoint;\nvarying float vLength;\nuniform float uAspect;\nuniform float uLwd;\n#endif\n\n#ifdef USE_ENVMAP\nvarying vec3 vReflection;\n#endif\n\nvoid main(void) {\n  \n#ifndef IS_BRUSH\n#if defined(NCLIPPLANES) || !defined(FIXED_QUADS) || defined(HAS_FOG) || defined(USE_ENVMAP)\n  vPosition = mvMatrix * vec4(aPos, 1.);\n#endif\n  \n#ifndef FIXED_QUADS\n  gl_Position = prMatrix * vPosition;\n#endif\n#endif // !IS_BRUSH\n  \n#ifdef IS_POINTS\n  gl_PointSize = POINTSIZE;\n#endif\n  \n  vCol = aCol;\n  \n// USE_ENVMAP implies NEEDS_VNORMAL\n\n#ifdef NEEDS_VNORMAL\n  vNormal = normMatrix * vec4(-aNorm, dot(aNorm, aPos));\n#endif\n\n#ifdef USE_ENVMAP\n  vReflection = normalize(reflect(vPosition.xyz/vPosition.w, \n                        normalize(vNormal.xyz/vNormal.w)));\n#endif\n  \n#ifdef IS_TWOSIDED\n#ifdef HAS_NORMALS\n  /* normz should be calculated *after* projection */\n  normz = (invPrMatrix*vNormal).z;\n#else\n  vec4 pos1 = prMatrix*(mvMatrix*vec4(aPos1, 1.));\n  pos1 = pos1/pos1.w - gl_Position/gl_Position.w;\n  vec4 pos2 = prMatrix*(mvMatrix*vec4(aPos2, 1.));\n  pos2 = pos2/pos2.w - gl_Position/gl_Position.w;\n  normz = pos1.x*pos2.y - pos1.y*pos2.x;\n#endif\n#endif // IS_TWOSIDED\n  \n#ifdef NEEDS_VNORMAL\n  vNormal = vec4(normalize(vNormal.xyz), 1);\n#endif\n  \n#if defined(HAS_TEXTURE) || defined(IS_TEXT)\n  vTexcoord = aTexcoord;\n#endif\n  \n#if defined(FIXED_SIZE) && !defined(ROTATING)\n  vec4 pos = prMatrix * mvMatrix * vec4(aPos, 1.);\n  pos = pos/pos.w;\n  gl_Position = pos + vec4(aOfs*textScale, 0.);\n#endif\n  \n#if defined(IS_SPRITES) && !defined(FIXED_SIZE)\n  vec4 pos = mvMatrix * vec4(aPos, 1.);\n  pos = pos/pos.w + vec4(aOfs,  0.);\n  gl_Position = prMatrix*pos;\n#endif\n  \n#ifdef FAT_LINES\n  /* This code was inspired by Matt Deslauriers' code in \n   https://mattdesl.svbtle.com/drawing-lines-is-hard */\n  vec2 aspectVec = vec2(uAspect, 1.0);\n  mat4 projViewModel = prMatrix * mvMatrix;\n  vec4 currentProjected = projViewModel * vec4(aPos, 1.0);\n  currentProjected = currentProjected/currentProjected.w;\n  vec4 nextProjected = projViewModel * vec4(aNext, 1.0);\n  vec2 currentScreen = currentProjected.xy * aspectVec;\n  vec2 nextScreen = (nextProjected.xy / nextProjected.w) * aspectVec;\n  float len = uLwd;\n  vec2 dir = vec2(1.0, 0.0);\n  vPoint = aPoint;\n  vLength = length(nextScreen - currentScreen)/2.0;\n  vLength = vLength/(vLength + len);\n  if (vLength > 0.0) {\n    dir = normalize(nextScreen - currentScreen);\n  }\n  vec2 normal = vec2(-dir.y, dir.x);\n  dir.x /= uAspect;\n  normal.x /= uAspect;\n  vec4 offset = vec4(len*(normal*aPoint.x*aPoint.y - dir), 0.0, 0.0);\n  gl_Position = currentProjected + offset;\n#endif\n  \n#ifdef IS_BRUSH\n  gl_Position = vec4(aPos, 1.);\n#endif\n}","fragmentShader":"#line 2 2\n// File 2 is the fragment shader\n#ifdef GL_ES\n#ifdef GL_FRAGMENT_PRECISION_HIGH\nprecision highp float;\n#else\nprecision mediump float;\n#endif\n#endif\nvarying vec4 vCol; // carries alpha\nvarying vec4 vPosition;\n#if defined(HAS_TEXTURE) || defined (IS_TEXT)\nvarying vec2 vTexcoord;\nuniform sampler2D uSampler;\n#endif\n\n#ifdef HAS_FOG\nuniform int uFogMode;\nuniform vec3 uFogColor;\nuniform vec4 uFogParms;\n#endif\n\n#if defined(IS_LIT) && !defined(FIXED_QUADS)\nvarying vec4 vNormal;\n#endif\n\n#if NCLIPPLANES > 0\nuniform vec4 vClipplane[NCLIPPLANES];\n#endif\n\n#if NLIGHTS > 0\nuniform mat4 mvMatrix;\n#endif\n\n#ifdef IS_LIT\nuniform vec3 emission;\nuniform float shininess;\n#if NLIGHTS > 0\nuniform vec3 ambient[NLIGHTS];\nuniform vec3 specular[NLIGHTS]; // light*material\nuniform vec3 diffuse[NLIGHTS];\nuniform vec3 lightDir[NLIGHTS];\nuniform bool viewpoint[NLIGHTS];\nuniform bool finite[NLIGHTS];\n#endif\n#endif // IS_LIT\n\n#ifdef IS_TWOSIDED\nuniform bool front;\nvarying float normz;\n#endif\n\n#ifdef FAT_LINES\nvarying vec2 vPoint;\nvarying float vLength;\n#endif\n\n#ifdef USE_ENVMAP\nvarying vec3 vReflection;\n#endif\n\nvoid main(void) {\n  vec4 fragColor;\n#ifdef FAT_LINES\n  vec2 point = vPoint;\n  bool neg = point.y < 0.0;\n  point.y = neg ? (point.y + vLength)/(1.0 - vLength) :\n                 -(point.y - vLength)/(1.0 - vLength);\n#if defined(IS_TRANSPARENT) && defined(IS_LINESTRIP)\n  if (neg && length(point) <= 1.0) discard;\n#endif\n  point.y = min(point.y, 0.0);\n  if (length(point) > 1.0) discard;\n#endif // FAT_LINES\n  \n#ifdef ROUND_POINTS\n  vec2 coord = gl_PointCoord - vec2(0.5);\n  if (length(coord) > 0.5) discard;\n#endif\n  \n#if NCLIPPLANES > 0\n  for (int i = 0; i < NCLIPPLANES; i++)\n    if (dot(vPosition, vClipplane[i]) < 0.0) discard;\n#endif\n    \n#ifdef FIXED_QUADS\n    vec3 n = vec3(0., 0., 1.);\n#elif defined(IS_LIT)\n    vec3 n = normalize(vNormal.xyz);\n#endif\n    \n#ifdef IS_TWOSIDED\n    if ((normz <= 0.) != front) discard;\n#endif\n\n#ifdef IS_LIT\n    vec3 eye = normalize(-vPosition.xyz/vPosition.w);\n    vec3 lightdir;\n    vec4 colDiff;\n    vec3 halfVec;\n    vec4 lighteffect = vec4(emission, 0.);\n    vec3 col;\n    float nDotL;\n#ifdef FIXED_QUADS\n    n = -faceforward(n, n, eye);\n#endif\n    \n#if NLIGHTS > 0\n    // Simulate two-sided lighting\n    if (n.z < 0.0)\n      n = -n;\n    for (int i=0;i<NLIGHTS;i++) {\n      colDiff = vec4(vCol.rgb * diffuse[i], vCol.a);\n      lightdir = lightDir[i];\n      if (!viewpoint[i]) {\n        if (finite[i]) {\n          lightdir = (mvMatrix * vec4(lightdir, 1.)).xyz;\n        } else {\n          lightdir = (mvMatrix * vec4(lightdir, 0.)).xyz;\n        }\n      }\n      if (!finite[i]) {\n        halfVec = normalize(lightdir + eye);\n      } else {\n        lightdir = normalize(lightdir - vPosition.xyz/vPosition.w);\n        halfVec = normalize(lightdir + eye);\n      }\n      col = ambient[i];\n      nDotL = dot(n, lightdir);\n      col = col + max(nDotL, 0.) * colDiff.rgb;\n      col = col + pow(max(dot(halfVec, n), 0.), shininess) * specular[i];\n      lighteffect = lighteffect + vec4(col, colDiff.a);\n    }\n#else\n    lighteffect.a = 1.;\n#endif\n    \n#else // not IS_LIT\n    vec4 colDiff = vCol;\n    vec4 lighteffect = colDiff;\n#endif\n    \n#ifdef IS_TEXT\n    vec4 textureColor = lighteffect*texture2D(uSampler, vTexcoord);\n#endif\n    \n#ifdef HAS_TEXTURE\n\n// These calculations use the definitions from \n// https://docs.gl/gl3/glTexEnv\n\n#ifdef USE_ENVMAP\n    float m = 2.0 * sqrt(dot(vReflection, vReflection) + 2.0*vReflection.z + 1.0);\n    vec4 textureColor = texture2D(uSampler, vReflection.xy / m + vec2(0.5, 0.5));\n#else\n    vec4 textureColor = texture2D(uSampler, vTexcoord);\n#endif\n\n#ifdef TEXTURE_rgb\n\n#if defined(TEXMODE_replace) || defined(TEXMODE_decal)\n    textureColor = vec4(textureColor.rgb, lighteffect.a);\n#endif \n\n#ifdef TEXMODE_modulate\n    textureColor = lighteffect*vec4(textureColor.rgb, 1.);\n#endif\n\n#ifdef TEXMODE_blend\n    textureColor = vec4((1. - textureColor.rgb) * lighteffect.rgb, lighteffect.a);\n#endif\n\n#ifdef TEXMODE_add\n    textureColor = vec4(lighteffect.rgb + textureColor.rgb, lighteffect.a);\n#endif\n\n#endif //TEXTURE_rgb\n        \n#ifdef TEXTURE_rgba\n\n#ifdef TEXMODE_replace\n// already done\n#endif \n\n#ifdef TEXMODE_modulate\n    textureColor = lighteffect*textureColor;\n#endif\n\n#ifdef TEXMODE_decal\n    textureColor = vec4((1. - textureColor.a)*lighteffect.rgb) +\n                     textureColor.a*textureColor.rgb, \n                     lighteffect.a);\n#endif\n\n#ifdef TEXMODE_blend\n    textureColor = vec4((1. - textureColor.rgb) * lighteffect.rgb,\n                    lighteffect.a*textureColor.a);\n#endif\n\n#ifdef TEXMODE_add\n    textureColor = vec4(lighteffect.rgb + textureColor.rgb,\n                    lighteffect.a*textureColor.a);\n#endif\n    \n#endif //TEXTURE_rgba\n    \n#ifdef TEXTURE_alpha\n    float luminance = dot(vec3(1.,1.,1.),textureColor.rgb)/3.;\n\n#if defined(TEXMODE_replace) || defined(TEXMODE_decal)\n    textureColor = vec4(lighteffect.rgb, luminance);\n#endif \n\n#if defined(TEXMODE_modulate) || defined(TEXMODE_blend) || defined(TEXMODE_add)\n    textureColor = vec4(lighteffect.rgb, lighteffect.a*luminance);\n#endif\n \n#endif // TEXTURE_alpha\n    \n// The TEXTURE_luminance values are not from that reference    \n#ifdef TEXTURE_luminance\n    float luminance = dot(vec3(1.,1.,1.),textureColor.rgb)/3.;\n\n#if defined(TEXMODE_replace) || defined(TEXMODE_decal)\n    textureColor = vec4(luminance, luminance, luminance, lighteffect.a);\n#endif \n\n#ifdef TEXMODE_modulate\n    textureColor = vec4(luminance*lighteffect.rgb, lighteffect.a);\n#endif\n\n#ifdef TEXMODE_blend\n    textureColor = vec4((1. - luminance)*lighteffect.rgb,\n                        lighteffect.a);\n#endif\n\n#ifdef TEXMODE_add\n    textureColor = vec4(luminance + lighteffect.rgb, lighteffect.a);\n#endif\n\n#endif // TEXTURE_luminance\n \n    \n#ifdef TEXTURE_luminance_alpha\n    float luminance = dot(vec3(1.,1.,1.),textureColor.rgb)/3.;\n\n#if defined(TEXMODE_replace) || defined(TEXMODE_decal)\n    textureColor = vec4(luminance, luminance, luminance, textureColor.a);\n#endif \n\n#ifdef TEXMODE_modulate\n    textureColor = vec4(luminance*lighteffect.rgb, \n                        textureColor.a*lighteffect.a);\n#endif\n\n#ifdef TEXMODE_blend\n    textureColor = vec4((1. - luminance)*lighteffect.rgb,\n                        textureColor.a*lighteffect.a);\n#endif\n\n#ifdef TEXMODE_add\n    textureColor = vec4(luminance + lighteffect.rgb, \n                        textureColor.a*lighteffect.a);\n\n#endif\n\n#endif // TEXTURE_luminance_alpha\n    \n    fragColor = textureColor;\n\n#elif defined(IS_TEXT)\n    if (textureColor.a < 0.1)\n      discard;\n    else\n      fragColor = textureColor;\n#else\n    fragColor = lighteffect;\n#endif // HAS_TEXTURE\n    \n#ifdef HAS_FOG\n    // uFogParms elements: x = near, y = far, z = fogscale, w = (1-sin(FOV/2))/(1+sin(FOV/2))\n    // In Exp and Exp2: use density = density/far\n    // fogF will be the proportion of fog\n    // Initialize it to the linear value\n    float fogF;\n    if (uFogMode > 0) {\n      fogF = (uFogParms.y - vPosition.z/vPosition.w)/(uFogParms.y - uFogParms.x);\n      if (uFogMode > 1)\n        fogF = mix(uFogParms.w, 1.0, fogF);\n      fogF = fogF*uFogParms.z;\n      if (uFogMode == 2)\n        fogF = 1.0 - exp(-fogF);\n      // Docs are wrong: use (density*c)^2, not density*c^2\n      // https://gitlab.freedesktop.org/mesa/mesa/-/blob/master/src/mesa/swrast/s_fog.c#L58\n      else if (uFogMode == 3)\n        fogF = 1.0 - exp(-fogF*fogF);\n      fogF = clamp(fogF, 0.0, 1.0);\n      gl_FragColor = vec4(mix(fragColor.rgb, uFogColor, fogF), fragColor.a);\n    } else gl_FragColor = fragColor;\n#else\n    gl_FragColor = fragColor;\n#endif // HAS_FOG\n    \n}","players":[],"webGLoptions":{"preserveDrawingBuffer":true},"fastTransparency":true},"evals":[],"jsHooks":[]}</script>
 <div style="display:flex; gap:20px; margin-top:10px; font-family:sans-serif; font-size:14px;">
   <span style="display:inline-flex; align-items:center; gap:6px;">
     <span style="display:inline-block; width:12px; height:12px; border-radius:50%; background:#e8c39e;"></span>

diff --git a/graficos/correlation/dispersao-3d-cafes/README.md b/graficos/correlation/dispersao-3d-cafes/README.md
@@ -62,7 +62,10 @@ você está procurando — a miniatura estática mostra só um ângulo fixo.
 ## Como foi feito
 
 O gráfico vem de `rgl::plot3d()`, que recebe três vetores numéricos e desenha o
-cubo com os pontos posicionados e coloridos por grupo.
+cubo com os pontos posicionados e coloridos por grupo. Cada observação é uma
+esfera de verdade (`type = "s"`, com `radius` controlando o tamanho) em vez de um
+marcador achatado — isso dá sombreamento e reflexo de luz reais, que mudam
+conforme o ângulo, reforçando a sensação de profundidade ao girar o gráfico.
 
 Uma particularidade deste ambiente: o script roda sem uma janela gráfica real
 (`Rscript` não-interativo), então é preciso `options(rgl.useNULL = TRUE)` antes de
@@ -129,8 +132,12 @@ para a nova largura, então a imagem continua nítida.
 
 ## Variações possíveis
 
-- Ajustar `size` e adicionar transparência (`alpha`) quando os pontos se
+- Ajustar `radius` e adicionar transparência (`alpha`) quando as esferas se
   sobrepuserem muito.
+- Voltar para marcadores simples (`type = "p"`) quando o volume de pontos for
+  grande — esferas custam mais para renderizar que pontos achatados.
+- Usar `type = "h"` (hastes até a base) quando o interesse for a "altura" de cada
+  ponto em relação ao plano, não só a nuvem de pontos.
 - Trocar pontos por superfícies de contorno (`persp3d()`), quando o interesse for
   uma função contínua em vez de observações discretas.
 - Adicionar uma quarta dimensão via tamanho do ponto, mapeando uma variável extra.
